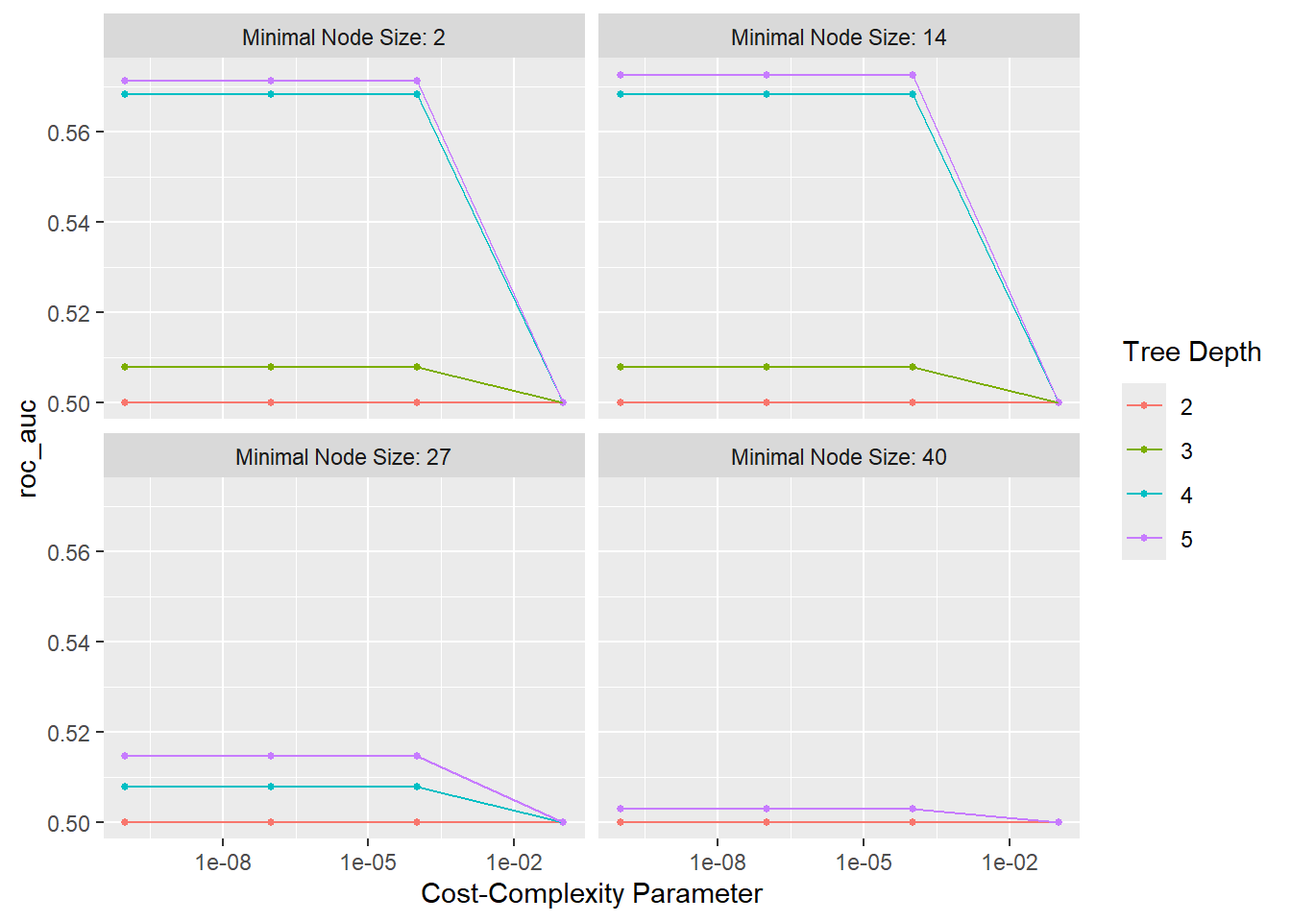
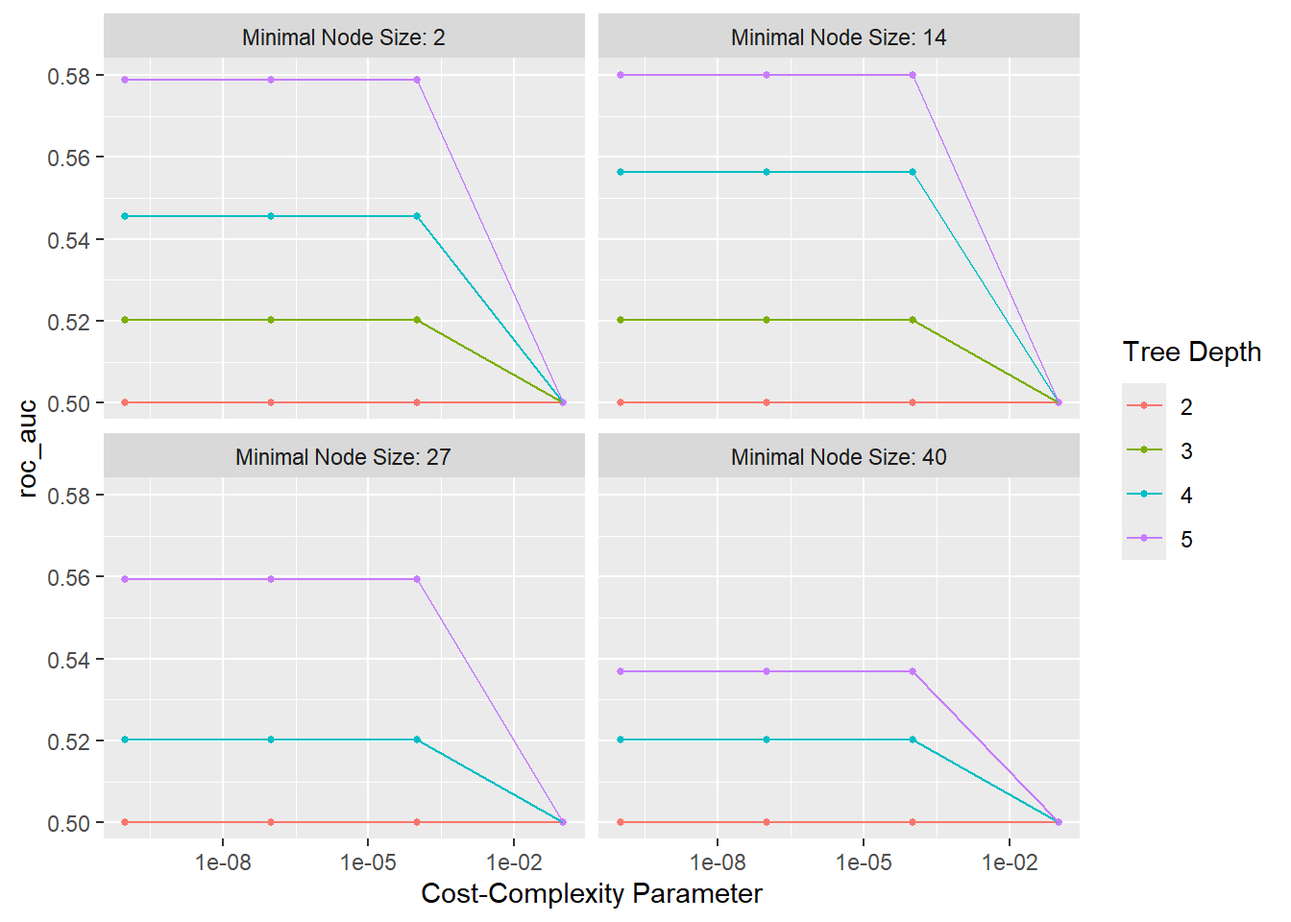
Update docs

diff --git a/docs/models/trees.html b/docs/models/trees.html
@@ -318,12 +318,14 @@ pre > code.sourceCode > span > a:first-child::before { text-decoration: underlin
 <h3 class="anchored" data-anchor-id="recipe-preprocessing">Recipe (preprocessing)</h3>
 <p>Trees don’t need fancy preprocessing: no <code>step_normalize()</code>, as trees only care about <em>order</em>, not scale; no <code>step_dummy()</code>, as <code>rpart</code> handles factor predictors natively; and imputation is still useful, since <code>rpart</code> can’t split on <code>NA</code>.</p>
 <div class="cell">
-<div class="code-copy-outer-scaffold"><div class="sourceCode cell-code" id="cb9"><pre class="sourceCode r code-with-copy"><code class="sourceCode r"><span id="cb9-1"><a href="#cb9-1" aria-hidden="true" tabindex="-1"></a>weapon_carry_recipe <span class="ot">&lt;-</span></span>
-<span id="cb9-2"><a href="#cb9-2" aria-hidden="true" tabindex="-1"></a>    <span class="fu">recipe</span>(WeaponCarryingSchool <span class="sc">~</span> ., <span class="at">data =</span> analysis_train) <span class="sc">|&gt;</span></span>
-<span id="cb9-3"><a href="#cb9-3" aria-hidden="true" tabindex="-1"></a>    <span class="fu">step_impute_mode</span>(<span class="fu">all_nominal_predictors</span>()) <span class="sc">|&gt;</span></span>
-<span id="cb9-4"><a href="#cb9-4" aria-hidden="true" tabindex="-1"></a>    <span class="fu">step_impute_mean</span>(<span class="fu">all_numeric_predictors</span>())</span>
-<span id="cb9-5"><a href="#cb9-5" aria-hidden="true" tabindex="-1"></a></span>
-<span id="cb9-6"><a href="#cb9-6" aria-hidden="true" tabindex="-1"></a>weapon_carry_recipe</span></code></pre></div><button title="Copy to Clipboard" class="code-copy-button"><i class="bi"></i></button></div>
+<div class="code-copy-outer-scaffold"><div class="sourceCode cell-code" id="cb9"><pre class="sourceCode r code-with-copy"><code class="sourceCode r"><span id="cb9-1"><a href="#cb9-1" aria-hidden="true" tabindex="-1"></a>weapon_carry_recipe <span class="ot">&lt;-</span> </span>
+<span id="cb9-2"><a href="#cb9-2" aria-hidden="true" tabindex="-1"></a>  <span class="fu">recipe</span>(<span class="at">formula =</span> WeaponCarryingSchool <span class="sc">~</span> ., <span class="at">data =</span> analysis_train) <span class="sc">|&gt;</span></span>
+<span id="cb9-3"><a href="#cb9-3" aria-hidden="true" tabindex="-1"></a>  <span class="fu">step_impute_mode</span>(<span class="fu">all_nominal_predictors</span>()) <span class="sc">|&gt;</span></span>
+<span id="cb9-4"><a href="#cb9-4" aria-hidden="true" tabindex="-1"></a>  <span class="fu">step_impute_mean</span>(<span class="fu">all_numeric_predictors</span>()) <span class="sc">|&gt;</span></span>
+<span id="cb9-5"><a href="#cb9-5" aria-hidden="true" tabindex="-1"></a>  <span class="fu">step_zv</span>(<span class="fu">all_predictors</span>()) <span class="sc">|&gt;</span> </span>
+<span id="cb9-6"><a href="#cb9-6" aria-hidden="true" tabindex="-1"></a>  <span class="fu">step_corr</span>(<span class="fu">all_numeric_predictors</span>(), <span class="at">threshold =</span> <span class="fl">0.7</span>)</span>
+<span id="cb9-7"><a href="#cb9-7" aria-hidden="true" tabindex="-1"></a></span>
+<span id="cb9-8"><a href="#cb9-8" aria-hidden="true" tabindex="-1"></a>weapon_carry_recipe</span></code></pre></div><button title="Copy to Clipboard" class="code-copy-button"><i class="bi"></i></button></div>
 <div class="cell-output cell-output-stderr">
 <pre><code></code></pre>
 </div>
@@ -355,21 +357,27 @@ predictor: 10</code></pre>
 <div class="cell-output cell-output-stderr">
 <pre><code>• Mean imputation for: all_numeric_predictors()</code></pre>
 </div>
+<div class="cell-output cell-output-stderr">
+<pre><code>• Zero variance filter on: all_predictors()</code></pre>
+</div>
+<div class="cell-output cell-output-stderr">
+<pre><code>• Correlation filter on: all_numeric_predictors()</code></pre>
+</div>
 </div>
 </section>
 <section id="specification" class="level3">
 <h3 class="anchored" data-anchor-id="specification">Specification</h3>
 <div class="cell">
-<div class="code-copy-outer-scaffold"><div class="sourceCode cell-code" id="cb20"><pre class="sourceCode r code-with-copy"><code class="sourceCode r"><span id="cb20-1"><a href="#cb20-1" aria-hidden="true" tabindex="-1"></a>cart_spec <span class="ot">&lt;-</span></span>
-<span id="cb20-2"><a href="#cb20-2" aria-hidden="true" tabindex="-1"></a>    <span class="fu">decision_tree</span>(</span>
-<span id="cb20-3"><a href="#cb20-3" aria-hidden="true" tabindex="-1"></a>        <span class="at">cost_complexity =</span> <span class="fu">tune</span>(), <span class="co"># ⬅ tune</span></span>
-<span id="cb20-4"><a href="#cb20-4" aria-hidden="true" tabindex="-1"></a>        <span class="at">tree_depth =</span> <span class="fu">tune</span>(),      <span class="co"># ⬅ tune</span></span>
-<span id="cb20-5"><a href="#cb20-5" aria-hidden="true" tabindex="-1"></a>        <span class="at">min_n =</span> <span class="fu">tune</span>()            <span class="co"># ⬅ tune</span></span>
-<span id="cb20-6"><a href="#cb20-6" aria-hidden="true" tabindex="-1"></a>    ) <span class="sc">|&gt;</span></span>
-<span id="cb20-7"><a href="#cb20-7" aria-hidden="true" tabindex="-1"></a>    <span class="fu">set_engine</span>(<span class="st">"rpart"</span>) <span class="sc">|&gt;</span></span>
-<span id="cb20-8"><a href="#cb20-8" aria-hidden="true" tabindex="-1"></a>    <span class="fu">set_mode</span>(<span class="st">"classification"</span>)</span>
-<span id="cb20-9"><a href="#cb20-9" aria-hidden="true" tabindex="-1"></a></span>
-<span id="cb20-10"><a href="#cb20-10" aria-hidden="true" tabindex="-1"></a>cart_spec</span></code></pre></div><button title="Copy to Clipboard" class="code-copy-button"><i class="bi"></i></button></div>
+<div class="code-copy-outer-scaffold"><div class="sourceCode cell-code" id="cb22"><pre class="sourceCode r code-with-copy"><code class="sourceCode r"><span id="cb22-1"><a href="#cb22-1" aria-hidden="true" tabindex="-1"></a>cart_spec <span class="ot">&lt;-</span></span>
+<span id="cb22-2"><a href="#cb22-2" aria-hidden="true" tabindex="-1"></a>    <span class="fu">decision_tree</span>(</span>
+<span id="cb22-3"><a href="#cb22-3" aria-hidden="true" tabindex="-1"></a>        <span class="at">cost_complexity =</span> <span class="fu">tune</span>(), <span class="co"># ⬅ tune</span></span>
+<span id="cb22-4"><a href="#cb22-4" aria-hidden="true" tabindex="-1"></a>        <span class="at">tree_depth =</span> <span class="fu">tune</span>(),      <span class="co"># ⬅ tune</span></span>
+<span id="cb22-5"><a href="#cb22-5" aria-hidden="true" tabindex="-1"></a>        <span class="at">min_n =</span> <span class="fu">tune</span>()            <span class="co"># ⬅ tune</span></span>
+<span id="cb22-6"><a href="#cb22-6" aria-hidden="true" tabindex="-1"></a>    ) <span class="sc">|&gt;</span></span>
+<span id="cb22-7"><a href="#cb22-7" aria-hidden="true" tabindex="-1"></a>    <span class="fu">set_engine</span>(<span class="st">"rpart"</span>) <span class="sc">|&gt;</span></span>
+<span id="cb22-8"><a href="#cb22-8" aria-hidden="true" tabindex="-1"></a>    <span class="fu">set_mode</span>(<span class="st">"classification"</span>)</span>
+<span id="cb22-9"><a href="#cb22-9" aria-hidden="true" tabindex="-1"></a></span>
+<span id="cb22-10"><a href="#cb22-10" aria-hidden="true" tabindex="-1"></a>cart_spec</span></code></pre></div><button title="Copy to Clipboard" class="code-copy-button"><i class="bi"></i></button></div>
 <div class="cell-output cell-output-stdout">
 <pre><code>Decision Tree Model Specification (classification)
 
@@ -386,22 +394,24 @@ Computational engine: rpart </code></pre>
 <h3 class="anchored" data-anchor-id="workflow-1">Workflow</h3>
 <p>Bundle it! This is the recipe and specification, neatly packaged.</p>
 <div class="cell">
-<div class="code-copy-outer-scaffold"><div class="sourceCode cell-code" id="cb22"><pre class="sourceCode r code-with-copy"><code class="sourceCode r"><span id="cb22-1"><a href="#cb22-1" aria-hidden="true" tabindex="-1"></a>cart_workflow <span class="ot">&lt;-</span></span>
-<span id="cb22-2"><a href="#cb22-2" aria-hidden="true" tabindex="-1"></a>    <span class="fu">workflow</span>() <span class="sc">|&gt;</span></span>
-<span id="cb22-3"><a href="#cb22-3" aria-hidden="true" tabindex="-1"></a>    <span class="fu">add_recipe</span>(weapon_carry_recipe) <span class="sc">|&gt;</span></span>
-<span id="cb22-4"><a href="#cb22-4" aria-hidden="true" tabindex="-1"></a>    <span class="fu">add_model</span>(cart_spec)</span>
-<span id="cb22-5"><a href="#cb22-5" aria-hidden="true" tabindex="-1"></a></span>
-<span id="cb22-6"><a href="#cb22-6" aria-hidden="true" tabindex="-1"></a>cart_workflow</span></code></pre></div><button title="Copy to Clipboard" class="code-copy-button"><i class="bi"></i></button></div>
+<div class="code-copy-outer-scaffold"><div class="sourceCode cell-code" id="cb24"><pre class="sourceCode r code-with-copy"><code class="sourceCode r"><span id="cb24-1"><a href="#cb24-1" aria-hidden="true" tabindex="-1"></a>cart_workflow <span class="ot">&lt;-</span></span>
+<span id="cb24-2"><a href="#cb24-2" aria-hidden="true" tabindex="-1"></a>    <span class="fu">workflow</span>() <span class="sc">|&gt;</span></span>
+<span id="cb24-3"><a href="#cb24-3" aria-hidden="true" tabindex="-1"></a>    <span class="fu">add_recipe</span>(weapon_carry_recipe) <span class="sc">|&gt;</span></span>
+<span id="cb24-4"><a href="#cb24-4" aria-hidden="true" tabindex="-1"></a>    <span class="fu">add_model</span>(cart_spec)</span>
+<span id="cb24-5"><a href="#cb24-5" aria-hidden="true" tabindex="-1"></a></span>
+<span id="cb24-6"><a href="#cb24-6" aria-hidden="true" tabindex="-1"></a>cart_workflow</span></code></pre></div><button title="Copy to Clipboard" class="code-copy-button"><i class="bi"></i></button></div>
 <div class="cell-output cell-output-stdout">
 <pre><code>══ Workflow ════════════════════════════════════════════════════════════════════
 Preprocessor: Recipe
 Model: decision_tree()
 
 ── Preprocessor ────────────────────────────────────────────────────────────────
-2 Recipe Steps
+4 Recipe Steps
 
 • step_impute_mode()
 • step_impute_mean()
+• step_zv()
+• step_corr()
 
 ── Model ───────────────────────────────────────────────────────────────────────
 Decision Tree Model Specification (classification)
@@ -422,14 +432,14 @@ Computational engine: rpart </code></pre>
 <h3 class="anchored" data-anchor-id="tuning-grid">Tuning grid</h3>
 <p>We first set up the tuning grid. Note that <code>levels</code> can be set to <code>3</code> for faster turnaround.</p>
 <div class="cell">
-<div class="code-copy-outer-scaffold"><div class="sourceCode cell-code" id="cb24"><pre class="sourceCode r code-with-copy"><code class="sourceCode r"><span id="cb24-1"><a href="#cb24-1" aria-hidden="true" tabindex="-1"></a>tree_grid <span class="ot">&lt;-</span> <span class="fu">grid_regular</span>(</span>
-<span id="cb24-2"><a href="#cb24-2" aria-hidden="true" tabindex="-1"></a>    <span class="fu">cost_complexity</span>(),</span>
-<span id="cb24-3"><a href="#cb24-3" aria-hidden="true" tabindex="-1"></a>    <span class="fu">tree_depth</span>(<span class="fu">c</span>(<span class="dv">2</span>, <span class="dv">5</span>)),</span>
-<span id="cb24-4"><a href="#cb24-4" aria-hidden="true" tabindex="-1"></a>    <span class="fu">min_n</span>(),</span>
-<span id="cb24-5"><a href="#cb24-5" aria-hidden="true" tabindex="-1"></a>    <span class="at">levels =</span> <span class="dv">4</span></span>
-<span id="cb24-6"><a href="#cb24-6" aria-hidden="true" tabindex="-1"></a>)</span>
-<span id="cb24-7"><a href="#cb24-7" aria-hidden="true" tabindex="-1"></a></span>
-<span id="cb24-8"><a href="#cb24-8" aria-hidden="true" tabindex="-1"></a>tree_grid</span></code></pre></div><button title="Copy to Clipboard" class="code-copy-button"><i class="bi"></i></button></div>
+<div class="code-copy-outer-scaffold"><div class="sourceCode cell-code" id="cb26"><pre class="sourceCode r code-with-copy"><code class="sourceCode r"><span id="cb26-1"><a href="#cb26-1" aria-hidden="true" tabindex="-1"></a>tree_grid <span class="ot">&lt;-</span> <span class="fu">grid_regular</span>(</span>
+<span id="cb26-2"><a href="#cb26-2" aria-hidden="true" tabindex="-1"></a>    <span class="fu">cost_complexity</span>(),</span>
+<span id="cb26-3"><a href="#cb26-3" aria-hidden="true" tabindex="-1"></a>    <span class="fu">tree_depth</span>(<span class="fu">c</span>(<span class="dv">2</span>, <span class="dv">5</span>)),</span>
+<span id="cb26-4"><a href="#cb26-4" aria-hidden="true" tabindex="-1"></a>    <span class="fu">min_n</span>(),</span>
+<span id="cb26-5"><a href="#cb26-5" aria-hidden="true" tabindex="-1"></a>    <span class="at">levels =</span> <span class="dv">4</span></span>
+<span id="cb26-6"><a href="#cb26-6" aria-hidden="true" tabindex="-1"></a>)</span>
+<span id="cb26-7"><a href="#cb26-7" aria-hidden="true" tabindex="-1"></a></span>
+<span id="cb26-8"><a href="#cb26-8" aria-hidden="true" tabindex="-1"></a>tree_grid</span></code></pre></div><button title="Copy to Clipboard" class="code-copy-button"><i class="bi"></i></button></div>
 <div class="cell-output cell-output-stdout">
 <pre><code># A tibble: 64 × 3
    cost_complexity tree_depth min_n
@@ -457,34 +467,34 @@ Computational engine: rpart </code></pre>
 </ul>
 <p>We’ll use <code>doParallel</code> to speed it up. Also, we use ROC AUC as the tuning metric — robust to class imbalance, and the same one we used for Lasso.</p>
 <div class="cell">
-<div class="code-copy-outer-scaffold"><div class="sourceCode cell-code" id="cb26"><pre class="sourceCode r code-with-copy"><code class="sourceCode r"><span id="cb26-1"><a href="#cb26-1" aria-hidden="true" tabindex="-1"></a>doParallel<span class="sc">::</span><span class="fu">registerDoParallel</span>()</span>
-<span id="cb26-2"><a href="#cb26-2" aria-hidden="true" tabindex="-1"></a></span>
-<span id="cb26-3"><a href="#cb26-3" aria-hidden="true" tabindex="-1"></a>cart_tune <span class="ot">&lt;-</span></span>
-<span id="cb26-4"><a href="#cb26-4" aria-hidden="true" tabindex="-1"></a>    cart_workflow <span class="sc">|&gt;</span></span>
-<span id="cb26-5"><a href="#cb26-5" aria-hidden="true" tabindex="-1"></a>    <span class="fu">tune_grid</span>(</span>
-<span id="cb26-6"><a href="#cb26-6" aria-hidden="true" tabindex="-1"></a>        <span class="at">resamples =</span> analysis_folds,</span>
-<span id="cb26-7"><a href="#cb26-7" aria-hidden="true" tabindex="-1"></a>        <span class="at">grid =</span> tree_grid,</span>
-<span id="cb26-8"><a href="#cb26-8" aria-hidden="true" tabindex="-1"></a>        <span class="at">metrics =</span> <span class="fu">metric_set</span>(roc_auc),</span>
-<span id="cb26-9"><a href="#cb26-9" aria-hidden="true" tabindex="-1"></a>        <span class="at">control =</span> <span class="fu">control_grid</span>(<span class="at">save_pred =</span> <span class="cn">TRUE</span>)</span>
-<span id="cb26-10"><a href="#cb26-10" aria-hidden="true" tabindex="-1"></a>    )</span>
-<span id="cb26-11"><a href="#cb26-11" aria-hidden="true" tabindex="-1"></a></span>
-<span id="cb26-12"><a href="#cb26-12" aria-hidden="true" tabindex="-1"></a>doParallel<span class="sc">::</span><span class="fu">stopImplicitCluster</span>()</span></code></pre></div><button title="Copy to Clipboard" class="code-copy-button"><i class="bi"></i></button></div>
+<div class="code-copy-outer-scaffold"><div class="sourceCode cell-code" id="cb28"><pre class="sourceCode r code-with-copy"><code class="sourceCode r"><span id="cb28-1"><a href="#cb28-1" aria-hidden="true" tabindex="-1"></a>doParallel<span class="sc">::</span><span class="fu">registerDoParallel</span>()</span>
+<span id="cb28-2"><a href="#cb28-2" aria-hidden="true" tabindex="-1"></a></span>
+<span id="cb28-3"><a href="#cb28-3" aria-hidden="true" tabindex="-1"></a>cart_tune <span class="ot">&lt;-</span></span>
+<span id="cb28-4"><a href="#cb28-4" aria-hidden="true" tabindex="-1"></a>    cart_workflow <span class="sc">|&gt;</span></span>
+<span id="cb28-5"><a href="#cb28-5" aria-hidden="true" tabindex="-1"></a>    <span class="fu">tune_grid</span>(</span>
+<span id="cb28-6"><a href="#cb28-6" aria-hidden="true" tabindex="-1"></a>        <span class="at">resamples =</span> analysis_folds,</span>
+<span id="cb28-7"><a href="#cb28-7" aria-hidden="true" tabindex="-1"></a>        <span class="at">grid =</span> tree_grid,</span>
+<span id="cb28-8"><a href="#cb28-8" aria-hidden="true" tabindex="-1"></a>        <span class="at">metrics =</span> <span class="fu">metric_set</span>(roc_auc),</span>
+<span id="cb28-9"><a href="#cb28-9" aria-hidden="true" tabindex="-1"></a>        <span class="at">control =</span> <span class="fu">control_grid</span>(<span class="at">save_pred =</span> <span class="cn">TRUE</span>)</span>
+<span id="cb28-10"><a href="#cb28-10" aria-hidden="true" tabindex="-1"></a>    )</span>
+<span id="cb28-11"><a href="#cb28-11" aria-hidden="true" tabindex="-1"></a></span>
+<span id="cb28-12"><a href="#cb28-12" aria-hidden="true" tabindex="-1"></a>doParallel<span class="sc">::</span><span class="fu">stopImplicitCluster</span>()</span></code></pre></div><button title="Copy to Clipboard" class="code-copy-button"><i class="bi"></i></button></div>
 </div>
 </section>
 <section id="show-the-best-candidates" class="level3">
 <h3 class="anchored" data-anchor-id="show-the-best-candidates">Show the best candidates</h3>
 <p>The top 5 hyperparameter combos, ranked by mean ROC AUC across the 10 folds.</p>
 <div class="cell">
-<div class="code-copy-outer-scaffold"><div class="sourceCode cell-code" id="cb27"><pre class="sourceCode r code-with-copy"><code class="sourceCode r"><span id="cb27-1"><a href="#cb27-1" aria-hidden="true" tabindex="-1"></a><span class="fu">show_best</span>(cart_tune, <span class="at">metric =</span> <span class="st">"roc_auc"</span>)</span></code></pre></div><button title="Copy to Clipboard" class="code-copy-button"><i class="bi"></i></button></div>
+<div class="code-copy-outer-scaffold"><div class="sourceCode cell-code" id="cb29"><pre class="sourceCode r code-with-copy"><code class="sourceCode r"><span id="cb29-1"><a href="#cb29-1" aria-hidden="true" tabindex="-1"></a><span class="fu">show_best</span>(cart_tune, <span class="at">metric =</span> <span class="st">"roc_auc"</span>)</span></code></pre></div><button title="Copy to Clipboard" class="code-copy-button"><i class="bi"></i></button></div>
 <div class="cell-output cell-output-stdout">
 <pre><code># A tibble: 5 × 9
   cost_complexity tree_depth min_n .metric .estimator  mean     n std_err
             &lt;dbl&gt;      &lt;int&gt; &lt;int&gt; &lt;chr&gt;   &lt;chr&gt;      &lt;dbl&gt; &lt;int&gt;   &lt;dbl&gt;
-1    0.0000000001          5    14 roc_auc binary     0.573    10  0.0186
-2    0.0000001             5    14 roc_auc binary     0.573    10  0.0186
-3    0.0001                5    14 roc_auc binary     0.573    10  0.0186
-4    0.0000000001          5     2 roc_auc binary     0.571    10  0.0191
-5    0.0000001             5     2 roc_auc binary     0.571    10  0.0191
+1    0.0000000001          5    14 roc_auc binary     0.580    10  0.0179
+2    0.0000001             5    14 roc_auc binary     0.580    10  0.0179
+3    0.0001                5    14 roc_auc binary     0.580    10  0.0179
+4    0.0000000001          5     2 roc_auc binary     0.579    10  0.0173
+5    0.0000001             5     2 roc_auc binary     0.579    10  0.0173
 # ℹ 1 more variable: .config &lt;chr&gt;</code></pre>
 </div>
 </div>
@@ -493,7 +503,7 @@ Computational engine: rpart </code></pre>
 <h3 class="anchored" data-anchor-id="visualize-the-tuning-results">Visualize the tuning results</h3>
 <p>In this visualization, each panel shows how the metric changes as one knob varies — colored by the others. We look for the sweet spot.</p>
 <div class="cell">
-<div class="code-copy-outer-scaffold"><div class="sourceCode cell-code" id="cb29"><pre class="sourceCode r code-with-copy"><code class="sourceCode r"><span id="cb29-1"><a href="#cb29-1" aria-hidden="true" tabindex="-1"></a><span class="fu">autoplot</span>(cart_tune)</span></code></pre></div><button title="Copy to Clipboard" class="code-copy-button"><i class="bi"></i></button></div>
+<div class="code-copy-outer-scaffold"><div class="sourceCode cell-code" id="cb31"><pre class="sourceCode r code-with-copy"><code class="sourceCode r"><span id="cb31-1"><a href="#cb31-1" aria-hidden="true" tabindex="-1"></a><span class="fu">autoplot</span>(cart_tune)</span></code></pre></div><button title="Copy to Clipboard" class="code-copy-button"><i class="bi"></i></button></div>
 <div class="cell-output-display">
 <div>
 <figure class="figure">
@@ -507,9 +517,9 @@ Computational engine: rpart </code></pre>
 <h3 class="anchored" data-anchor-id="picking-the-best-combination">Picking the best combination</h3>
 <p>We select one row as the winner candidate:</p>
 <div class="cell">
-<div class="code-copy-outer-scaffold"><div class="sourceCode cell-code" id="cb30"><pre class="sourceCode r code-with-copy"><code class="sourceCode r"><span id="cb30-1"><a href="#cb30-1" aria-hidden="true" tabindex="-1"></a>best_cart <span class="ot">&lt;-</span> <span class="fu">select_best</span>(cart_tune, <span class="at">metric =</span> <span class="st">"roc_auc"</span>)</span>
-<span id="cb30-2"><a href="#cb30-2" aria-hidden="true" tabindex="-1"></a></span>
-<span id="cb30-3"><a href="#cb30-3" aria-hidden="true" tabindex="-1"></a>best_cart</span></code></pre></div><button title="Copy to Clipboard" class="code-copy-button"><i class="bi"></i></button></div>
+<div class="code-copy-outer-scaffold"><div class="sourceCode cell-code" id="cb32"><pre class="sourceCode r code-with-copy"><code class="sourceCode r"><span id="cb32-1"><a href="#cb32-1" aria-hidden="true" tabindex="-1"></a>best_cart <span class="ot">&lt;-</span> <span class="fu">select_best</span>(cart_tune, <span class="at">metric =</span> <span class="st">"roc_auc"</span>)</span>
+<span id="cb32-2"><a href="#cb32-2" aria-hidden="true" tabindex="-1"></a></span>
+<span id="cb32-3"><a href="#cb32-3" aria-hidden="true" tabindex="-1"></a>best_cart</span></code></pre></div><button title="Copy to Clipboard" class="code-copy-button"><i class="bi"></i></button></div>
 <div class="cell-output cell-output-stdout">
 <pre><code># A tibble: 1 × 4
   cost_complexity tree_depth min_n .config         
@@ -524,34 +534,36 @@ Computational engine: rpart </code></pre>
 <h2 class="anchored" data-anchor-id="how-does-our-chosen-candidate-actually-do">How does our chosen candidate actually do?</h2>
 <p>Here, we get an honest, CV-estimated performance for our single chosen combo.</p>
 <div class="cell">
-<div class="code-copy-outer-scaffold"><div class="sourceCode cell-code" id="cb32"><pre class="sourceCode r code-with-copy"><code class="sourceCode r"><span id="cb32-1"><a href="#cb32-1" aria-hidden="true" tabindex="-1"></a>cart_workflow <span class="sc">|&gt;</span></span>
-<span id="cb32-2"><a href="#cb32-2" aria-hidden="true" tabindex="-1"></a>    <span class="fu">finalize_workflow</span>(best_cart) <span class="sc">|&gt;</span></span>
-<span id="cb32-3"><a href="#cb32-3" aria-hidden="true" tabindex="-1"></a>    <span class="fu">fit_resamples</span>(<span class="at">resamples =</span> analysis_folds) <span class="sc">|&gt;</span></span>
-<span id="cb32-4"><a href="#cb32-4" aria-hidden="true" tabindex="-1"></a>    <span class="fu">collect_metrics</span>()</span></code></pre></div><button title="Copy to Clipboard" class="code-copy-button"><i class="bi"></i></button></div>
+<div class="code-copy-outer-scaffold"><div class="sourceCode cell-code" id="cb34"><pre class="sourceCode r code-with-copy"><code class="sourceCode r"><span id="cb34-1"><a href="#cb34-1" aria-hidden="true" tabindex="-1"></a>cart_workflow <span class="sc">|&gt;</span></span>
+<span id="cb34-2"><a href="#cb34-2" aria-hidden="true" tabindex="-1"></a>    <span class="fu">finalize_workflow</span>(best_cart) <span class="sc">|&gt;</span></span>
+<span id="cb34-3"><a href="#cb34-3" aria-hidden="true" tabindex="-1"></a>    <span class="fu">fit_resamples</span>(<span class="at">resamples =</span> analysis_folds) <span class="sc">|&gt;</span></span>
+<span id="cb34-4"><a href="#cb34-4" aria-hidden="true" tabindex="-1"></a>    <span class="fu">collect_metrics</span>()</span></code></pre></div><button title="Copy to Clipboard" class="code-copy-button"><i class="bi"></i></button></div>
 <div class="cell-output cell-output-stdout">
 <pre><code># A tibble: 3 × 6
-  .metric     .estimator   mean     n std_err .config        
-  &lt;chr&gt;       &lt;chr&gt;       &lt;dbl&gt; &lt;int&gt;   &lt;dbl&gt; &lt;chr&gt;          
-1 accuracy    binary     0.957     10 0.00125 pre0_mod0_post0
-2 brier_class binary     0.0408    10 0.00110 pre0_mod0_post0
-3 roc_auc     binary     0.573     10 0.0186  pre0_mod0_post0</code></pre>
+  .metric     .estimator   mean     n  std_err .config        
+  &lt;chr&gt;       &lt;chr&gt;       &lt;dbl&gt; &lt;int&gt;    &lt;dbl&gt; &lt;chr&gt;          
+1 accuracy    binary     0.956     10 0.000833 pre0_mod0_post0
+2 brier_class binary     0.0411    10 0.000781 pre0_mod0_post0
+3 roc_auc     binary     0.580     10 0.0179   pre0_mod0_post0</code></pre>
 </div>
 </div>
 <p>Looks good, time to lock it in.</p>
 <div class="cell">
-<div class="code-copy-outer-scaffold"><div class="sourceCode cell-code" id="cb34"><pre class="sourceCode r code-with-copy"><code class="sourceCode r"><span id="cb34-1"><a href="#cb34-1" aria-hidden="true" tabindex="-1"></a>cart_final_wf <span class="ot">&lt;-</span> <span class="fu">finalize_workflow</span>(cart_workflow, best_cart)</span>
-<span id="cb34-2"><a href="#cb34-2" aria-hidden="true" tabindex="-1"></a></span>
-<span id="cb34-3"><a href="#cb34-3" aria-hidden="true" tabindex="-1"></a>cart_final_wf</span></code></pre></div><button title="Copy to Clipboard" class="code-copy-button"><i class="bi"></i></button></div>
+<div class="code-copy-outer-scaffold"><div class="sourceCode cell-code" id="cb36"><pre class="sourceCode r code-with-copy"><code class="sourceCode r"><span id="cb36-1"><a href="#cb36-1" aria-hidden="true" tabindex="-1"></a>cart_final_wf <span class="ot">&lt;-</span> <span class="fu">finalize_workflow</span>(cart_workflow, best_cart)</span>
+<span id="cb36-2"><a href="#cb36-2" aria-hidden="true" tabindex="-1"></a></span>
+<span id="cb36-3"><a href="#cb36-3" aria-hidden="true" tabindex="-1"></a>cart_final_wf</span></code></pre></div><button title="Copy to Clipboard" class="code-copy-button"><i class="bi"></i></button></div>
 <div class="cell-output cell-output-stdout">
 <pre><code>══ Workflow ════════════════════════════════════════════════════════════════════
 Preprocessor: Recipe
 Model: decision_tree()
 
 ── Preprocessor ────────────────────────────────────────────────────────────────
-2 Recipe Steps
+4 Recipe Steps
 
 • step_impute_mode()
 • step_impute_mean()
+• step_zv()
+• step_corr()
 
 ── Model ───────────────────────────────────────────────────────────────────────
 Decision Tree Model Specification (classification)
@@ -570,14 +582,14 @@ Computational engine: rpart </code></pre>
 <h2 class="anchored" data-anchor-id="evaluate-on-the-test-set">Evaluate on the Test Set</h2>
 <p>We use <code>last_fit()</code> to fit <strong>all</strong> training data to predit on the <strong>test</strong> set. It computes metrics once, and honestly, with no accidental cheating possible.</p>
 <div class="cell">
-<div class="code-copy-outer-scaffold"><div class="sourceCode cell-code" id="cb36"><pre class="sourceCode r code-with-copy"><code class="sourceCode r"><span id="cb36-1"><a href="#cb36-1" aria-hidden="true" tabindex="-1"></a>cart_last_fit <span class="ot">&lt;-</span></span>
-<span id="cb36-2"><a href="#cb36-2" aria-hidden="true" tabindex="-1"></a>    <span class="fu">last_fit</span>(</span>
-<span id="cb36-3"><a href="#cb36-3" aria-hidden="true" tabindex="-1"></a>        cart_final_wf,</span>
-<span id="cb36-4"><a href="#cb36-4" aria-hidden="true" tabindex="-1"></a>        <span class="at">split   =</span> analysis_split,</span>
-<span id="cb36-5"><a href="#cb36-5" aria-hidden="true" tabindex="-1"></a>        <span class="at">metrics =</span> <span class="fu">metric_set</span>(accuracy, kap, roc_auc, sensitivity, specificity)</span>
-<span id="cb36-6"><a href="#cb36-6" aria-hidden="true" tabindex="-1"></a>    )</span>
-<span id="cb36-7"><a href="#cb36-7" aria-hidden="true" tabindex="-1"></a></span>
-<span id="cb36-8"><a href="#cb36-8" aria-hidden="true" tabindex="-1"></a>cart_last_fit</span></code></pre></div><button title="Copy to Clipboard" class="code-copy-button"><i class="bi"></i></button></div>
+<div class="code-copy-outer-scaffold"><div class="sourceCode cell-code" id="cb38"><pre class="sourceCode r code-with-copy"><code class="sourceCode r"><span id="cb38-1"><a href="#cb38-1" aria-hidden="true" tabindex="-1"></a>cart_last_fit <span class="ot">&lt;-</span></span>
+<span id="cb38-2"><a href="#cb38-2" aria-hidden="true" tabindex="-1"></a>    <span class="fu">last_fit</span>(</span>
+<span id="cb38-3"><a href="#cb38-3" aria-hidden="true" tabindex="-1"></a>        cart_final_wf,</span>
+<span id="cb38-4"><a href="#cb38-4" aria-hidden="true" tabindex="-1"></a>        <span class="at">split   =</span> analysis_split,</span>
+<span id="cb38-5"><a href="#cb38-5" aria-hidden="true" tabindex="-1"></a>        <span class="at">metrics =</span> <span class="fu">metric_set</span>(accuracy, kap, roc_auc, sensitivity, specificity)</span>
+<span id="cb38-6"><a href="#cb38-6" aria-hidden="true" tabindex="-1"></a>    )</span>
+<span id="cb38-7"><a href="#cb38-7" aria-hidden="true" tabindex="-1"></a></span>
+<span id="cb38-8"><a href="#cb38-8" aria-hidden="true" tabindex="-1"></a>cart_last_fit</span></code></pre></div><button title="Copy to Clipboard" class="code-copy-button"><i class="bi"></i></button></div>
 <div class="cell-output cell-output-stdout">
 <pre><code># Resampling results
 # Manual resampling 
@@ -591,7 +603,7 @@ Computational engine: rpart </code></pre>
 <h3 class="anchored" data-anchor-id="test-set-metrics">Test-set metrics</h3>
 <p>Finally, we obtain our metrics:</p>
 <div class="cell">
-<div class="code-copy-outer-scaffold"><div class="sourceCode cell-code" id="cb38"><pre class="sourceCode r code-with-copy"><code class="sourceCode r"><span id="cb38-1"><a href="#cb38-1" aria-hidden="true" tabindex="-1"></a><span class="fu">collect_metrics</span>(cart_last_fit)</span></code></pre></div><button title="Copy to Clipboard" class="code-copy-button"><i class="bi"></i></button></div>
+<div class="code-copy-outer-scaffold"><div class="sourceCode cell-code" id="cb40"><pre class="sourceCode r code-with-copy"><code class="sourceCode r"><span id="cb40-1"><a href="#cb40-1" aria-hidden="true" tabindex="-1"></a><span class="fu">collect_metrics</span>(cart_last_fit)</span></code></pre></div><button title="Copy to Clipboard" class="code-copy-button"><i class="bi"></i></button></div>
 <div class="cell-output cell-output-stdout">
 <pre><code># A tibble: 5 × 4
   .metric     .estimator .estimate .config        
@@ -608,12 +620,12 @@ Computational engine: rpart </code></pre>
 <section id="test-set-predictions" class="level3">
 <h3 class="anchored" data-anchor-id="test-set-predictions">Test-set predictions</h3>
 <div class="cell">
-<div class="code-copy-outer-scaffold"><div class="sourceCode cell-code" id="cb40"><pre class="sourceCode r code-with-copy"><code class="sourceCode r"><span id="cb40-1"><a href="#cb40-1" aria-hidden="true" tabindex="-1"></a>tree_pred <span class="ot">&lt;-</span></span>
-<span id="cb40-2"><a href="#cb40-2" aria-hidden="true" tabindex="-1"></a>    cart_last_fit <span class="sc">|&gt;</span></span>
-<span id="cb40-3"><a href="#cb40-3" aria-hidden="true" tabindex="-1"></a>    <span class="fu">collect_predictions</span>() <span class="sc">|&gt;</span></span>
-<span id="cb40-4"><a href="#cb40-4" aria-hidden="true" tabindex="-1"></a>    <span class="fu">select</span>(WeaponCarryingSchool, .pred_class, .pred_1, .pred_0)</span>
-<span id="cb40-5"><a href="#cb40-5" aria-hidden="true" tabindex="-1"></a></span>
-<span id="cb40-6"><a href="#cb40-6" aria-hidden="true" tabindex="-1"></a>tree_pred</span></code></pre></div><button title="Copy to Clipboard" class="code-copy-button"><i class="bi"></i></button></div>
+<div class="code-copy-outer-scaffold"><div class="sourceCode cell-code" id="cb42"><pre class="sourceCode r code-with-copy"><code class="sourceCode r"><span id="cb42-1"><a href="#cb42-1" aria-hidden="true" tabindex="-1"></a>tree_pred <span class="ot">&lt;-</span></span>
+<span id="cb42-2"><a href="#cb42-2" aria-hidden="true" tabindex="-1"></a>    cart_last_fit <span class="sc">|&gt;</span></span>
+<span id="cb42-3"><a href="#cb42-3" aria-hidden="true" tabindex="-1"></a>    <span class="fu">collect_predictions</span>() <span class="sc">|&gt;</span></span>
+<span id="cb42-4"><a href="#cb42-4" aria-hidden="true" tabindex="-1"></a>    <span class="fu">select</span>(WeaponCarryingSchool, .pred_class, .pred_1, .pred_0)</span>
+<span id="cb42-5"><a href="#cb42-5" aria-hidden="true" tabindex="-1"></a></span>
+<span id="cb42-6"><a href="#cb42-6" aria-hidden="true" tabindex="-1"></a>tree_pred</span></code></pre></div><button title="Copy to Clipboard" class="code-copy-button"><i class="bi"></i></button></div>
 <div class="cell-output cell-output-stdout">
 <pre><code># A tibble: 4,899 × 4
    WeaponCarryingSchool .pred_class .pred_1 .pred_0
@@ -635,9 +647,9 @@ Computational engine: rpart </code></pre>
 <section id="confusion-matrix" class="level3">
 <h3 class="anchored" data-anchor-id="confusion-matrix">Confusion Matrix</h3>
 <div class="cell">
-<div class="code-copy-outer-scaffold"><div class="sourceCode cell-code" id="cb42"><pre class="sourceCode r code-with-copy"><code class="sourceCode r"><span id="cb42-1"><a href="#cb42-1" aria-hidden="true" tabindex="-1"></a>tree_pred <span class="sc">|&gt;</span></span>
-<span id="cb42-2"><a href="#cb42-2" aria-hidden="true" tabindex="-1"></a>    <span class="fu">conf_mat</span>(<span class="at">truth =</span> WeaponCarryingSchool, <span class="at">estimate =</span> .pred_class) <span class="sc">|&gt;</span></span>
-<span id="cb42-3"><a href="#cb42-3" aria-hidden="true" tabindex="-1"></a>    <span class="fu">autoplot</span>(<span class="at">type =</span> <span class="st">"heatmap"</span>)</span></code></pre></div><button title="Copy to Clipboard" class="code-copy-button"><i class="bi"></i></button></div>
+<div class="code-copy-outer-scaffold"><div class="sourceCode cell-code" id="cb44"><pre class="sourceCode r code-with-copy"><code class="sourceCode r"><span id="cb44-1"><a href="#cb44-1" aria-hidden="true" tabindex="-1"></a>tree_pred <span class="sc">|&gt;</span></span>
+<span id="cb44-2"><a href="#cb44-2" aria-hidden="true" tabindex="-1"></a>    <span class="fu">conf_mat</span>(<span class="at">truth =</span> WeaponCarryingSchool, <span class="at">estimate =</span> .pred_class) <span class="sc">|&gt;</span></span>
+<span id="cb44-3"><a href="#cb44-3" aria-hidden="true" tabindex="-1"></a>    <span class="fu">autoplot</span>(<span class="at">type =</span> <span class="st">"heatmap"</span>)</span></code></pre></div><button title="Copy to Clipboard" class="code-copy-button"><i class="bi"></i></button></div>
 <div class="cell-output-display">
 <div>
 <figure class="figure">
@@ -650,9 +662,9 @@ Computational engine: rpart </code></pre>
 <section id="roc-curve-on-the-test-set" class="level3">
 <h3 class="anchored" data-anchor-id="roc-curve-on-the-test-set">ROC curve on the test set</h3>
 <div class="cell">
-<div class="code-copy-outer-scaffold"><div class="sourceCode cell-code" id="cb43"><pre class="sourceCode r code-with-copy"><code class="sourceCode r"><span id="cb43-1"><a href="#cb43-1" aria-hidden="true" tabindex="-1"></a>tree_pred <span class="sc">|&gt;</span></span>
-<span id="cb43-2"><a href="#cb43-2" aria-hidden="true" tabindex="-1"></a>    <span class="fu">roc_curve</span>(<span class="at">truth =</span> WeaponCarryingSchool, .pred_1, <span class="at">event_level =</span> <span class="st">"second"</span>) <span class="sc">|&gt;</span></span>
-<span id="cb43-3"><a href="#cb43-3" aria-hidden="true" tabindex="-1"></a>    <span class="fu">autoplot</span>()</span></code></pre></div><button title="Copy to Clipboard" class="code-copy-button"><i class="bi"></i></button></div>
+<div class="code-copy-outer-scaffold"><div class="sourceCode cell-code" id="cb45"><pre class="sourceCode r code-with-copy"><code class="sourceCode r"><span id="cb45-1"><a href="#cb45-1" aria-hidden="true" tabindex="-1"></a>tree_pred <span class="sc">|&gt;</span></span>
+<span id="cb45-2"><a href="#cb45-2" aria-hidden="true" tabindex="-1"></a>    <span class="fu">roc_curve</span>(<span class="at">truth =</span> WeaponCarryingSchool, .pred_1, <span class="at">event_level =</span> <span class="st">"second"</span>) <span class="sc">|&gt;</span></span>
+<span id="cb45-3"><a href="#cb45-3" aria-hidden="true" tabindex="-1"></a>    <span class="fu">autoplot</span>()</span></code></pre></div><button title="Copy to Clipboard" class="code-copy-button"><i class="bi"></i></button></div>
 <div class="cell-output-display">
 <div>
 <figure class="figure">
@@ -668,9 +680,9 @@ Computational engine: rpart </code></pre>
 <h2 class="anchored" data-anchor-id="visualizing-the-final-tree">Visualizing the final tree</h2>
 <p>This is the superpower of trees: it is a model your collaborator (or PI, or grandma) can read without a stats degree.</p>
 <div class="cell">
-<div class="code-copy-outer-scaffold"><div class="sourceCode cell-code" id="cb44"><pre class="sourceCode r code-with-copy"><code class="sourceCode r"><span id="cb44-1"><a href="#cb44-1" aria-hidden="true" tabindex="-1"></a>cart_last_fit <span class="sc">|&gt;</span></span>
-<span id="cb44-2"><a href="#cb44-2" aria-hidden="true" tabindex="-1"></a>    <span class="fu">extract_fit_engine</span>() <span class="sc">|&gt;</span></span>
-<span id="cb44-3"><a href="#cb44-3" aria-hidden="true" tabindex="-1"></a>    <span class="fu">rpart.plot</span>(<span class="at">roundint =</span> <span class="cn">FALSE</span>, <span class="at">type =</span> <span class="dv">4</span>, <span class="at">extra =</span> <span class="dv">104</span>)</span></code></pre></div><button title="Copy to Clipboard" class="code-copy-button"><i class="bi"></i></button></div>
+<div class="code-copy-outer-scaffold"><div class="sourceCode cell-code" id="cb46"><pre class="sourceCode r code-with-copy"><code class="sourceCode r"><span id="cb46-1"><a href="#cb46-1" aria-hidden="true" tabindex="-1"></a>cart_last_fit <span class="sc">|&gt;</span></span>
+<span id="cb46-2"><a href="#cb46-2" aria-hidden="true" tabindex="-1"></a>    <span class="fu">extract_fit_engine</span>() <span class="sc">|&gt;</span></span>
+<span id="cb46-3"><a href="#cb46-3" aria-hidden="true" tabindex="-1"></a>    <span class="fu">rpart.plot</span>(<span class="at">roundint =</span> <span class="cn">FALSE</span>, <span class="at">type =</span> <span class="dv">4</span>, <span class="at">extra =</span> <span class="dv">104</span>)</span></code></pre></div><button title="Copy to Clipboard" class="code-copy-button"><i class="bi"></i></button></div>
 <div class="cell-output-display">
 <div>
 <figure class="figure">
@@ -684,9 +696,9 @@ Computational engine: rpart </code></pre>
 <h2 class="anchored" data-anchor-id="variable-importance-with-vip">Variable importance with <code>vip</code></h2>
 <p>Each bar in the variable importance plot (VIP) indicates how much that predictor reduced impurity across all splits. Predictors not shown were never useful enough to make the tree. This makes for a free feature ranking for your manuscript.</p>
 <div class="cell">
-<div class="code-copy-outer-scaffold"><div class="sourceCode cell-code" id="cb45"><pre class="sourceCode r code-with-copy"><code class="sourceCode r"><span id="cb45-1"><a href="#cb45-1" aria-hidden="true" tabindex="-1"></a>cart_last_fit <span class="sc">|&gt;</span></span>
-<span id="cb45-2"><a href="#cb45-2" aria-hidden="true" tabindex="-1"></a>    <span class="fu">extract_fit_parsnip</span>() <span class="sc">|&gt;</span></span>
-<span id="cb45-3"><a href="#cb45-3" aria-hidden="true" tabindex="-1"></a>    <span class="fu">vip</span>(<span class="at">num_features =</span> <span class="dv">15</span>)</span></code></pre></div><button title="Copy to Clipboard" class="code-copy-button"><i class="bi"></i></button></div>
+<div class="code-copy-outer-scaffold"><div class="sourceCode cell-code" id="cb47"><pre class="sourceCode r code-with-copy"><code class="sourceCode r"><span id="cb47-1"><a href="#cb47-1" aria-hidden="true" tabindex="-1"></a>cart_last_fit <span class="sc">|&gt;</span></span>
+<span id="cb47-2"><a href="#cb47-2" aria-hidden="true" tabindex="-1"></a>    <span class="fu">extract_fit_parsnip</span>() <span class="sc">|&gt;</span></span>
+<span id="cb47-3"><a href="#cb47-3" aria-hidden="true" tabindex="-1"></a>    <span class="fu">vip</span>(<span class="at">num_features =</span> <span class="dv">15</span>)</span></code></pre></div><button title="Copy to Clipboard" class="code-copy-button"><i class="bi"></i></button></div>
 <div class="cell-output-display">
 <div>
 <figure class="figure">

diff --git a/docs/models/lasso.html b/docs/models/lasso.html
@@ -153,7 +153,7 @@ pre > code.sourceCode > span > a:first-child::before { text-decoration: underlin
  <span class="dropdown-text">Lasso Regression</span></a>
   </li>  
         <li>
-    <a class="dropdown-item" href="../models/trees.qmd">
+    <a class="dropdown-item" href="../models/trees.html">
  <span class="dropdown-text">Decision Trees</span></a>
   </li>  
         <li>
